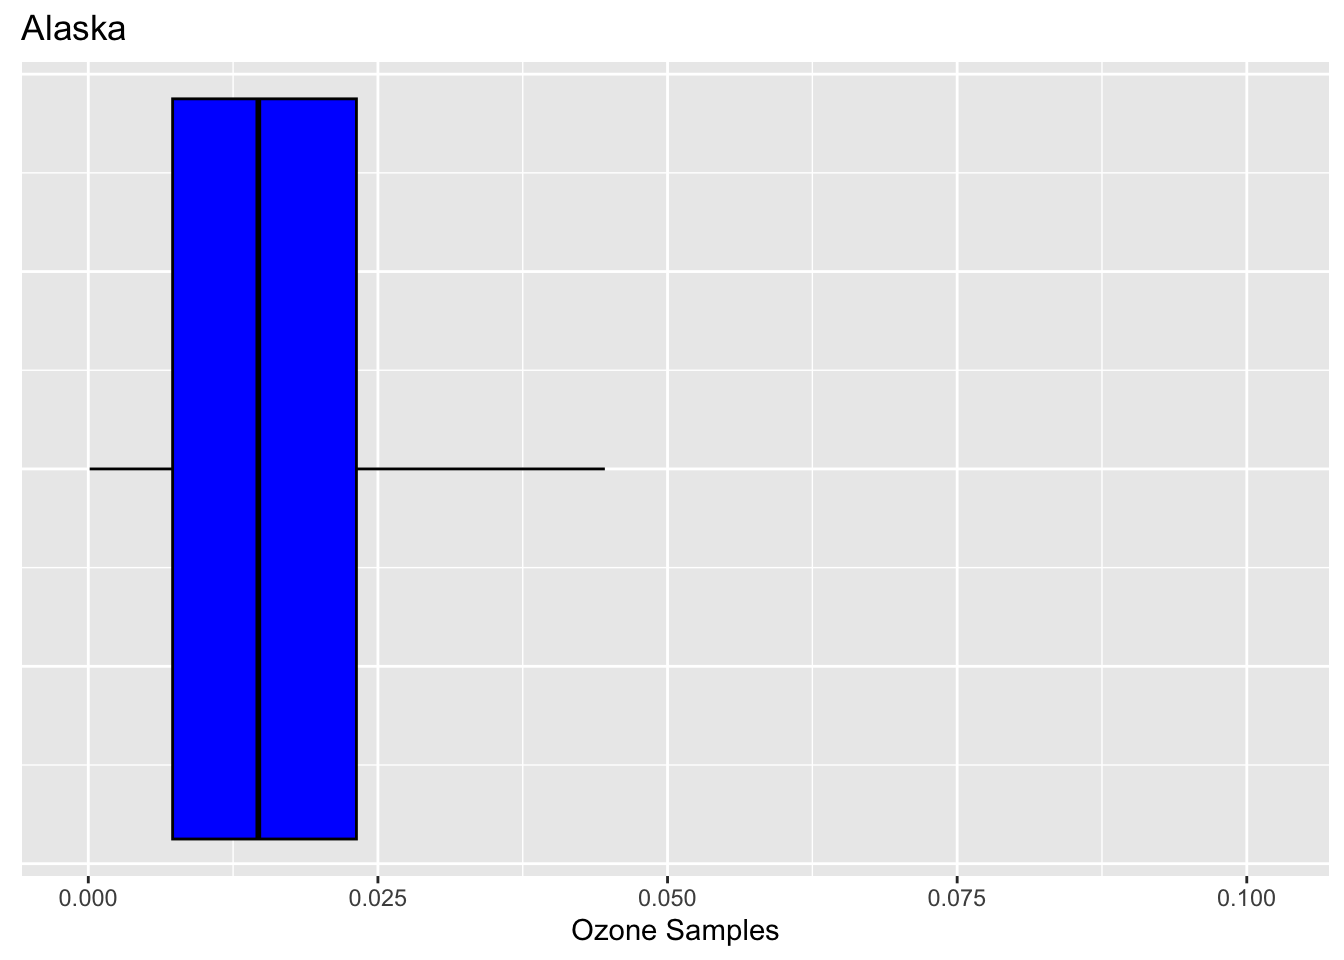
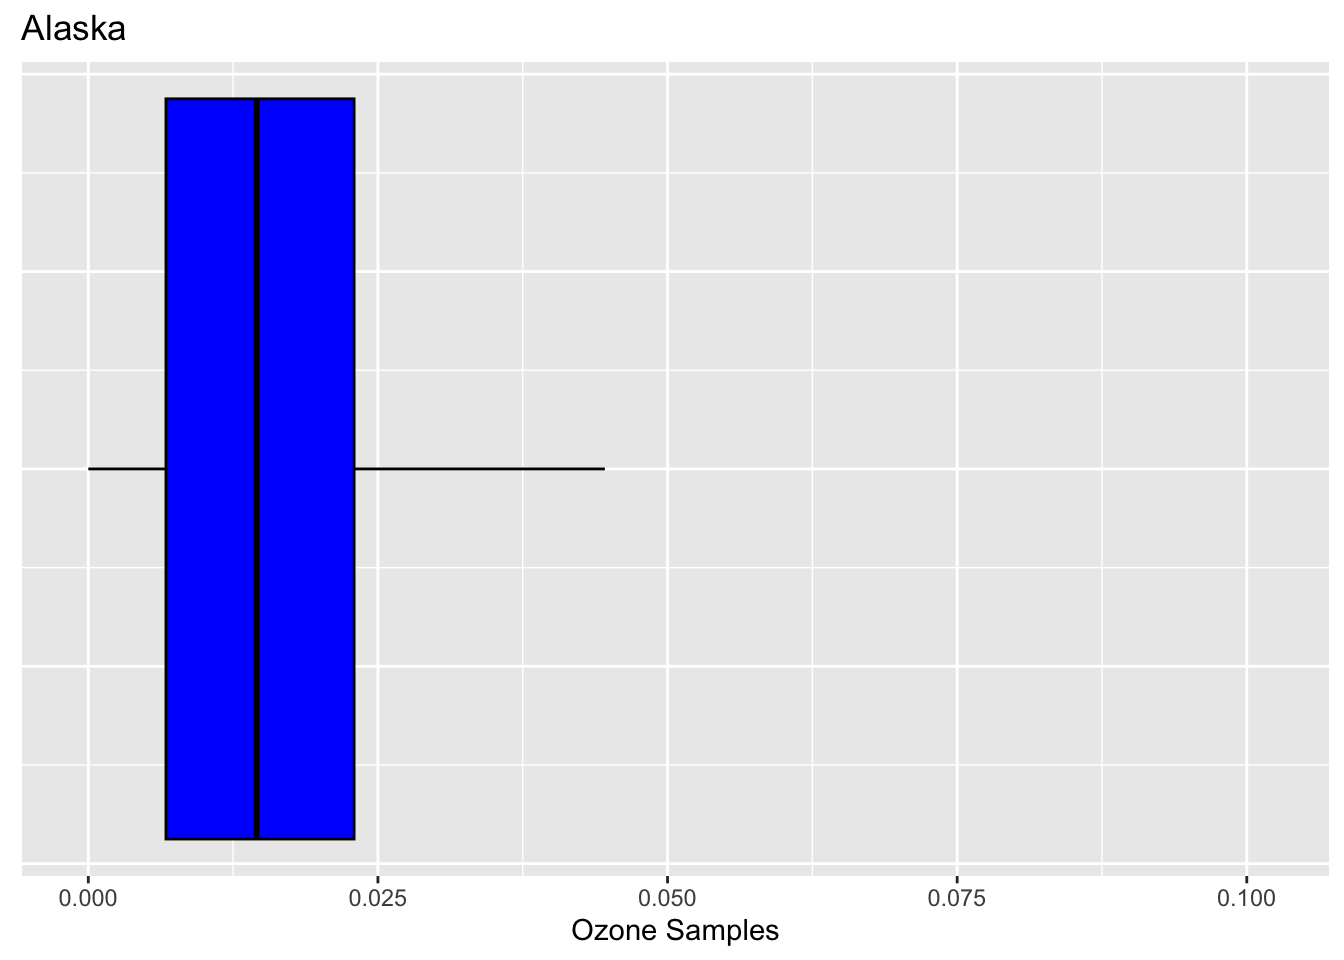
Final polishes.

Changed region(s): [[0.25, 0.0938, 0.2812, 0.875], [0.125, 0.0938, 0.1562, 0.875], [0.1875, 0.125, 0.2188, 0.875]]

diff --git a/STAT107_Data Analysis Project/Final Report/US_Air_Pollution_Report.html b/STAT107_Data Analysis Project/Final Report/US_Air_Pollution_Report.html
@@ -156,13 +156,12 @@ Specify the column types or set `show_col_types = FALSE` to quiet this message.
 </section>
 <section id="lance-santanas-section" class="level1">
 <h1>Lance Santana’s Section</h1>
-<p>Reads and cleans pollution data set:</p>
-<p>Analysis summary:</p>
-<p>The initial analysis focused on extreme pollution conditions, particularly in California, due to its unexpected results, which contrasted with the high ozone levels typically expected near industrial hubs. This observation led to an investigation as to the potential effects of the quantity of ozone samples coming up as 0s.</p>
+<p>Ozone Analysis:</p>
+<p>The initial analysis centered on extreme pollution conditions, particularly in California, due to its unexpected results which contrasted with the high ozone levels typically associated with industrial hubs. This prompted an investigation into the potential impact of the significant number of ozone samples recorded as zeros.</p>
 <p>Reads and cleans pollution data set:</p>
 <div class="cell">
 <div class="sourceCode cell-code" id="cb7"><pre class="sourceCode r code-with-copy"><code class="sourceCode r"><span id="cb7-1"><a href="#cb7-1" aria-hidden="true" tabindex="-1"></a><span class="co">#Removes negative values from data</span></span>
-<span id="cb7-2"><a href="#cb7-2" aria-hidden="true" tabindex="-1"></a>pollution_data <span class="ot">&lt;-</span> airquality_data[airquality_data<span class="sc">$</span><span class="st">`</span><span class="at">O3 Mean</span><span class="st">`</span> <span class="sc">&gt;</span> <span class="dv">0</span>,]</span></code><button title="Copy to Clipboard" class="code-copy-button"><i class="bi"></i></button></pre></div>
+<span id="cb7-2"><a href="#cb7-2" aria-hidden="true" tabindex="-1"></a>pollution_data <span class="ot">&lt;-</span> airquality_data[airquality_data<span class="sc">$</span><span class="st">`</span><span class="at">O3 Mean</span><span class="st">`</span> <span class="sc">&gt;=</span> <span class="dv">0</span>,]</span></code><button title="Copy to Clipboard" class="code-copy-button"><i class="bi"></i></button></pre></div>
 </div>
 <p>Question #1a/b: Which cities have the highest &amp; lowest recorded ozone pollution levels?</p>
 <div class="cell">
@@ -197,22 +196,22 @@ Specify the column types or set `show_col_types = FALSE` to quiet this message.
 </details>
 <div class="cell-output cell-output-stdout">
 <pre><code># A tibble: 100 × 3
-   State          City              `O3 Mean`
-   &lt;chr&gt;          &lt;chr&gt;                 &lt;dbl&gt;
- 1 Colorado       Welby              0.000059
- 2 California     Vallejo            0.000059
- 3 Arkansas       North Little Rock  0.000059
- 4 Connecticut    New Haven          0.000059
- 5 California     San Jose           0.000083
- 6 Virginia       Vinton             0.000111
- 7 California     Not in a city      0.000118
- 8 New York       New York           0.000118
- 9 New York       New York           0.000118
-10 North Carolina Charlotte          0.000118
+   State        City         `O3 Mean`
+   &lt;chr&gt;        &lt;chr&gt;            &lt;dbl&gt;
+ 1 California   Burbank              0
+ 2 California   Arden-Arcade         0
+ 3 California   Arden-Arcade         0
+ 4 California   Arden-Arcade         0
+ 5 Colorado     Welby                0
+ 6 Colorado     Welby                0
+ 7 Missouri     Ferguson             0
+ 8 Missouri     St. Louis            0
+ 9 Pennsylvania Pittsburgh           0
+10 Pennsylvania Beaver Falls         0
 # ℹ 90 more rows</code></pre>
 </div>
 </div>
-<p>Notably, data points surrounding San Francisco and Los Angeles were recorded among the lower than expected ozone levels.</p>
+<p>Notably, measured ozone levels surrounding San Francisco and Los Angeles were recorded as lower than expected, as shown in the following graphic.</p>
 <p>Question #1c: Where are the highest and lowest recorded ozone levels in the United States?</p>
 <div class="cell">
 <details class="code-fold">
@@ -245,7 +244,7 @@ Specify the column types or set `show_col_types = FALSE` to quiet this message.
 </div>
 </div>
 </div>
-<p>A calculation of samples with zero ozone pollution in California’s data set revealed that almost 20% of all zero ozone samples were from California. While this suggests limited ozone pollution, potential errors in data collection may contribute to these results.</p>
+<p>A calculation of samples with zero ozone pollution in California’s data set revealed California accounted for almost 20% of all zero ozone samples in the data set. While this findings suggest limited ozone pollution in these areas, potential errors in data collection may have contributed to these results.</p>
 <p>Question #1d: What are some potential issues with the data that may result in skewed statistics?</p>
 <div class="cell">
 <details class="code-fold">
@@ -313,9 +312,9 @@ Specify the column types or set `show_col_types = FALSE` to quiet this message.
 </details>
 <div class="cell-output cell-output-stdout">
 <pre><code>        State    Mean_O3
-46     Alaska 0.01556845
-32     Oregon 0.02186855
-20 Washington 0.02191782</code></pre>
+46     Alaska 0.01528091
+32     Oregon 0.02183142
+20 Washington 0.02190443</code></pre>
 </div>
 <details class="code-fold">
 <summary>Code</summary>
@@ -330,7 +329,7 @@ Specify the column types or set `show_col_types = FALSE` to quiet this message.
 <pre><code>        State    Mean_O3
 25  Tennessee 0.03908276
 33    Wyoming 0.03887681
-41 New Mexico 0.03565797</code></pre>
+41 New Mexico 0.03564987</code></pre>
 </div>
 </div>
 <p>This was further evidenced by comparing the data disbursement of California and Tennessee, which has the highest average ozone. A comparison between the two bar graphs showed that California’s data is skewed to the right while still holding a lower mean than Tennessee.</p>
@@ -408,7 +407,7 @@ Specify the column types or set `show_col_types = FALSE` to quiet this message.
 </div>
 </div>
 <p>Question #3a:</p>
-<p>What is the average ozone air pollution for California compared to the highest and lowest ozone states?</p>
+<p>How does the average ozone air pollution for California compare to the median as well as the highest and lowest ozone states?</p>
 <div class="cell">
 <details class="code-fold">
 <summary>Code</summary>
@@ -434,7 +433,7 @@ Specify the column types or set `show_col_types = FALSE` to quiet this message.
 <span id="cb28-20"><a href="#cb28-20" aria-hidden="true" tabindex="-1"></a><span class="fu">cat</span>(<span class="st">"Median State Ozone:"</span>, <span class="fu">median</span>(oz_mean_by_state<span class="sc">$</span>average_ozone_mean),<span class="st">"</span><span class="sc">\n\n</span><span class="st">"</span>)</span></code><button title="Copy to Clipboard" class="code-copy-button"><i class="bi"></i></button></pre></div>
 </details>
 <div class="cell-output cell-output-stdout">
-<pre><code>Median State Ozone: 0.02874424 </code></pre>
+<pre><code>Median State Ozone: 0.02872695 </code></pre>
 </div>
 <details class="code-fold">
 <summary>Code</summary>
@@ -452,7 +451,7 @@ Specify the column types or set `show_col_types = FALSE` to quiet this message.
 </details>
 <div class="cell-output cell-output-stdout">
 <pre><code>State with lowest average ozone level:
- Alaska 0.01556845 </code></pre>
+ Alaska 0.01528091 </code></pre>
 </div>
 <details class="code-fold">
 <summary>Code</summary>
@@ -467,24 +466,24 @@ Specify the column types or set `show_col_types = FALSE` to quiet this message.
 <div class="sourceCode cell-code" id="cb36"><pre class="sourceCode r code-with-copy"><code class="sourceCode r"><span id="cb36-1"><a href="#cb36-1" aria-hidden="true" tabindex="-1"></a><span class="fu">mean</span>(cali_data<span class="sc">$</span><span class="st">`</span><span class="at">O3 Mean</span><span class="st">`</span>)</span></code><button title="Copy to Clipboard" class="code-copy-button"><i class="bi"></i></button></pre></div>
 </details>
 <div class="cell-output cell-output-stdout">
-<pre><code>[1] 0.02839114</code></pre>
+<pre><code>[1] 0.02838408</code></pre>
 </div>
 <details class="code-fold">
 <summary>Code</summary>
 <div class="sourceCode cell-code" id="cb38"><pre class="sourceCode r code-with-copy"><code class="sourceCode r"><span id="cb38-1"><a href="#cb38-1" aria-hidden="true" tabindex="-1"></a><span class="fu">cat</span>(<span class="st">"California's average ozone is "</span>, higest_ozone_state<span class="sc">$</span>average_ozone_mean <span class="sc">-</span> <span class="fu">mean</span>(cali_data<span class="sc">$</span><span class="st">`</span><span class="at">O3 Mean</span><span class="st">`</span>), <span class="st">" below the highest state average</span><span class="sc">\n</span><span class="st">"</span>)</span></code><button title="Copy to Clipboard" class="code-copy-button"><i class="bi"></i></button></pre></div>
 </details>
 <div class="cell-output cell-output-stdout">
-<pre><code>California's average ozone is  0.01069162  below the highest state average</code></pre>
+<pre><code>California's average ozone is  0.01069868  below the highest state average</code></pre>
 </div>
 <details class="code-fold">
 <summary>Code</summary>
-<div class="sourceCode cell-code" id="cb40"><pre class="sourceCode r code-with-copy"><code class="sourceCode r"><span id="cb40-1"><a href="#cb40-1" aria-hidden="true" tabindex="-1"></a><span class="fu">cat</span>(<span class="st">"California's average ozone is "</span>, <span class="fu">mean</span>(cali_data<span class="sc">$</span><span class="st">`</span><span class="at">O3 Mean</span><span class="st">`</span>) <span class="sc">-</span> <span class="fu">median</span>(oz_mean_by_state<span class="sc">$</span>average_ozone_mean), <span class="st">" above the median</span><span class="sc">\n\n</span><span class="st">"</span>)</span></code><button title="Copy to Clipboard" class="code-copy-button"><i class="bi"></i></button></pre></div>
+<div class="sourceCode cell-code" id="cb40"><pre class="sourceCode r code-with-copy"><code class="sourceCode r"><span id="cb40-1"><a href="#cb40-1" aria-hidden="true" tabindex="-1"></a><span class="fu">cat</span>(<span class="st">"California's average ozone is "</span>, <span class="fu">median</span>(oz_mean_by_state<span class="sc">$</span>average_ozone_mean) <span class="sc">-</span> <span class="fu">mean</span>(cali_data<span class="sc">$</span><span class="st">`</span><span class="at">O3 Mean</span><span class="st">`</span>), <span class="st">" below the median</span><span class="sc">\n\n</span><span class="st">"</span>)</span></code><button title="Copy to Clipboard" class="code-copy-button"><i class="bi"></i></button></pre></div>
 </details>
 <div class="cell-output cell-output-stdout">
-<pre><code>California's average ozone is  -0.0003531006  above the median</code></pre>
+<pre><code>California's average ozone is  0.0003428702  below the median</code></pre>
 </div>
 </div>
-<p>Considering that other states may be misrepresented by the frequency of zero ozone samples, a bar graph was developed to compare states with zero and only non-zero values. The graph illustrates states with a higher frequency of zero-ozone tend to have a lower average ozone concentration.</p>
+<p>Considering that other states may be misrepresented by the frequency of zero ozone samples, a bar graph was developed to compare states with zero and only non-zero values. The first graph shows the spread of ozone averages in relation to Alaska, California, and Tennessee, with the following graph illustrating the relationship between states with higher counts of zero-ozone samples and lower average ozone concentrations.</p>
 <p>Question #3b:</p>
 <p>How do average ozone levels vary across states, and how do California, Tennessee, and Alaska compare to other states and the median in terms of ozone pollution?</p>
 <div class="cell">
@@ -597,8 +596,7 @@ Specify the column types or set `show_col_types = FALSE` to quiet this message.
 <pre><code>[1] "Purple represents the states with a zero count greater to or equal to 10, while blue states represent states with less than 10 but not zero."</code></pre>
 </div>
 </div>
-<p>Conclusion:</p>
-<p>Given the limits of this analysis, factors or potential correlations cannot be ruled out without additional analysis or consultation with outside information. With these caveats in mind, the effects of 0 ozone samples are uncertain and results show that Alaska is the best place for ozone pollution, Tennessee the worst, and California falls near average.</p>
+<p>Given the limits of this analysis, factors or potential correlations cannot be ruled out without additional analysis or consultation with external information. With these caveats in mind, the effects of zero ozone samples are uncertain. The results show that Alaska is the best place for ozone pollution, Tennessee is the worst, and California falls near the average.</p>
 </section>
 <section id="cole-hammes-section" class="level1">
 <h1>Cole Hammes’ Section</h1>
